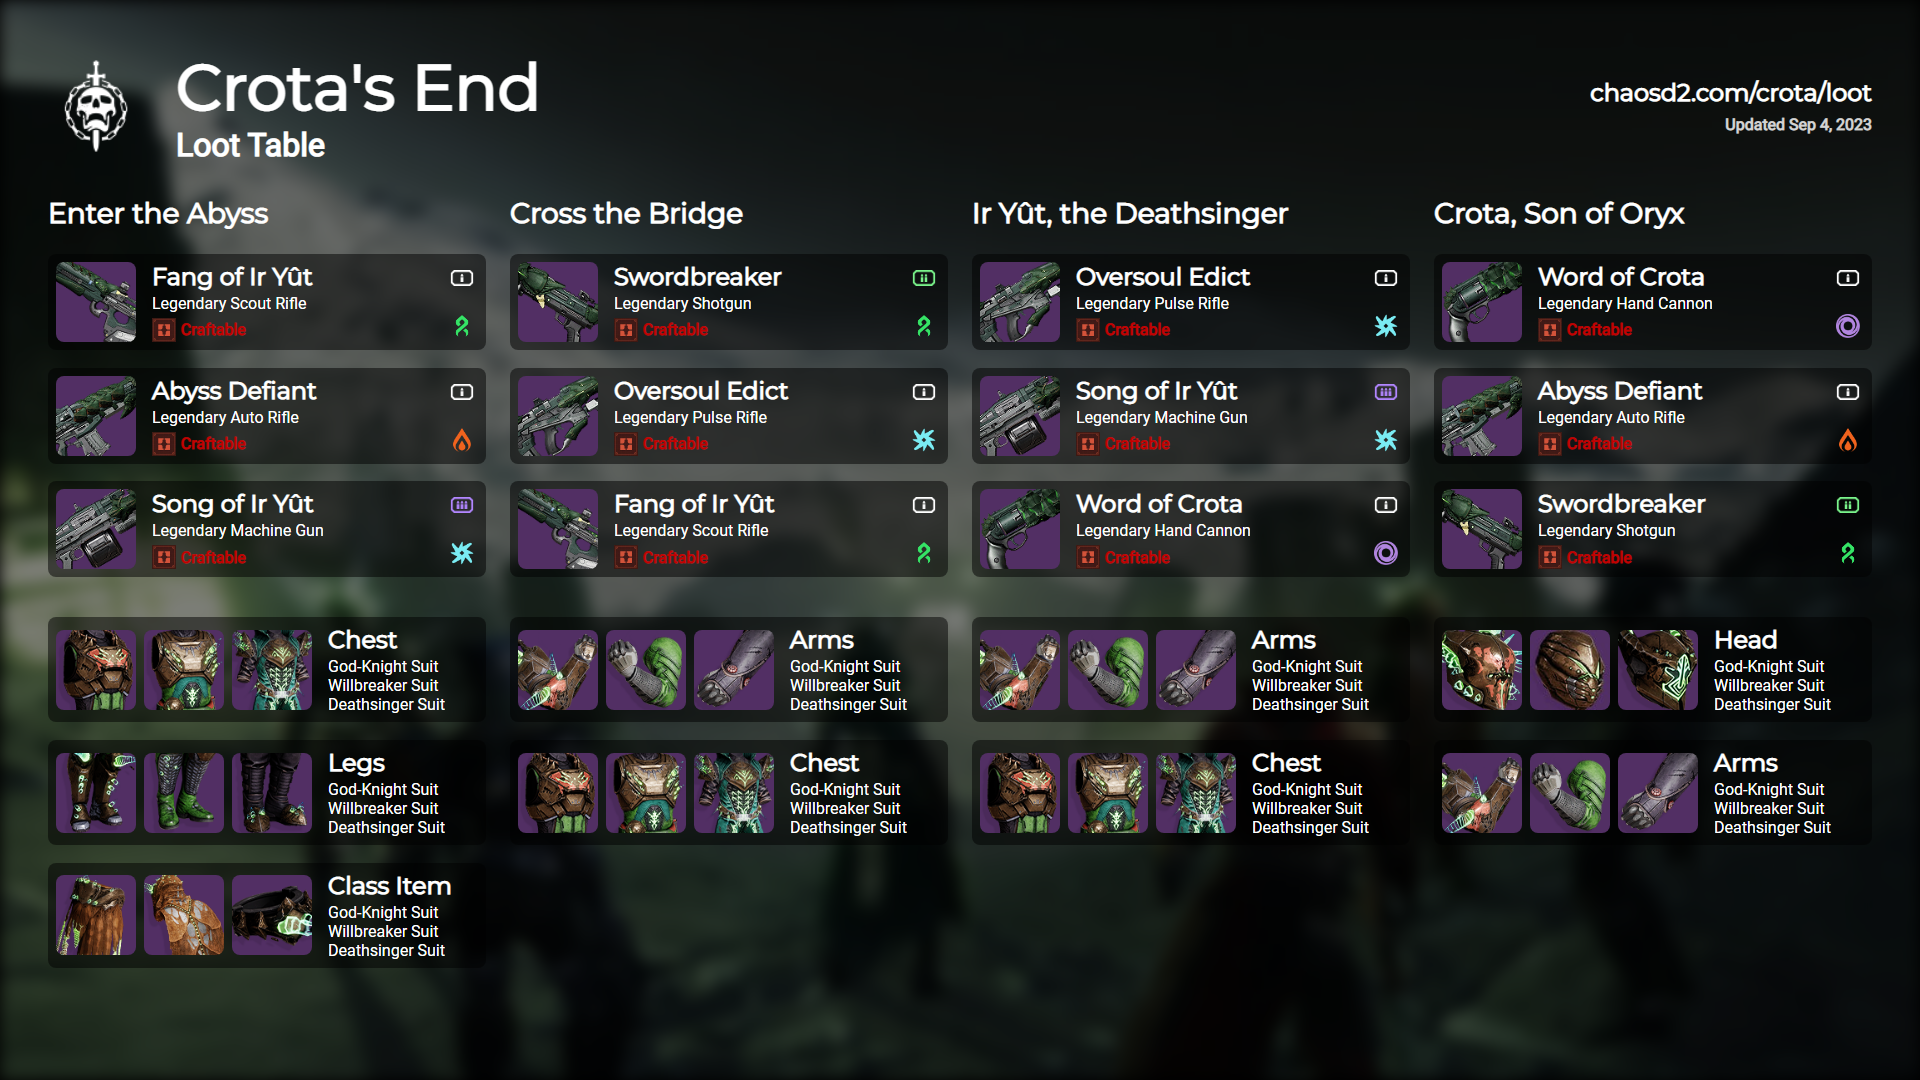
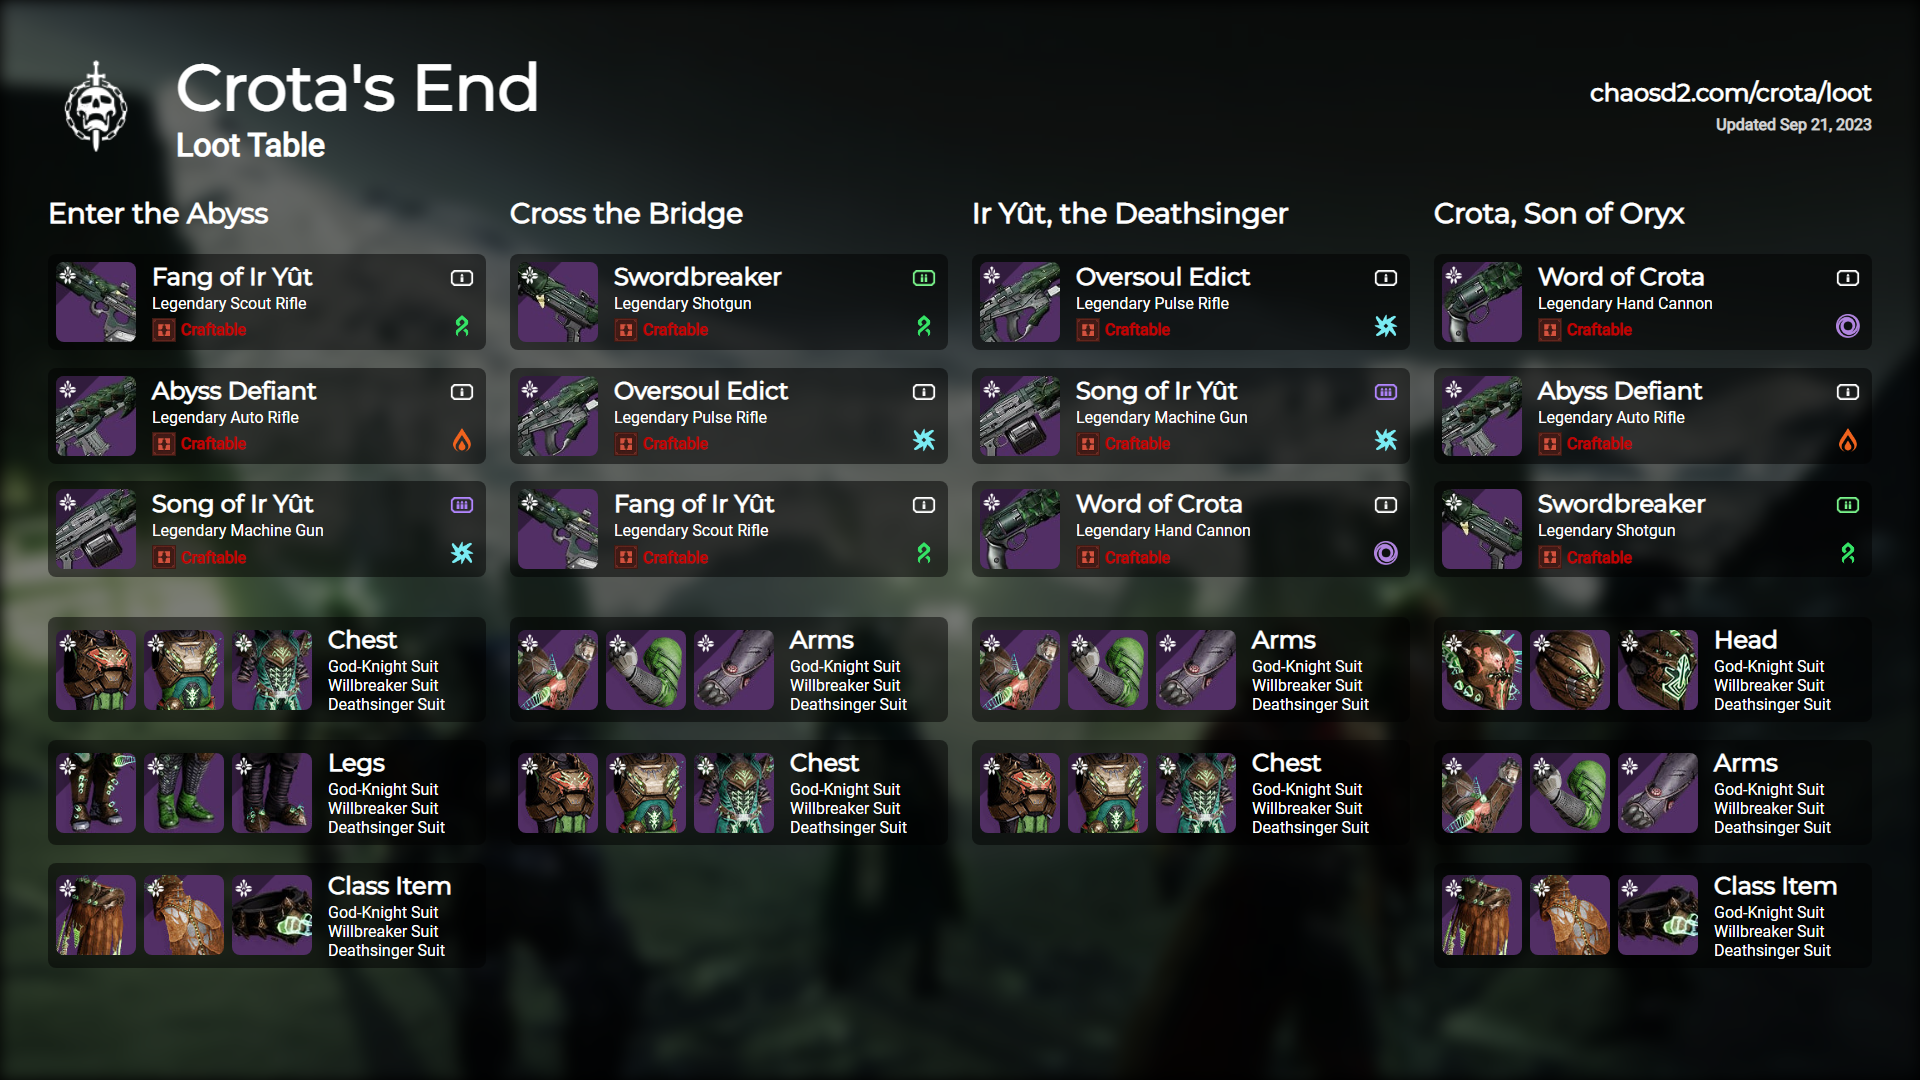
Updated Crota's End Loot Table

diff --git a/src/lib/bungie/APIHandler.js b/src/lib/bungie/APIHandler.js
@@ -8,192 +8,7 @@ const damage = {
 }
 
 const static_definitions = {
-    "1432682459": {
-        "displayProperties": {
-            "name": "Fang of Ir Yût",
-            "icon": "https://chaosd2.com/images/temp/crotas_end/scout_rifle.png",
-        },
-        "inventory": {
-            "recipeItemHash": 1
-        },
-        "equippingBlock": {
-            "ammoType": 1
-        },
-        "damageTypeHashes": [
-            damage.Strand
-        ],
-        "itemTypeAndTierDisplayName": "Legendary Scout Rifle",
-    },
-    "3163900678": {
-        "displayProperties": {
-            "name": "Swordbreaker",
-            "icon": "https://chaosd2.com/images/temp/crotas_end/shotgun.png",
-        },
-        "inventory": {
-            "recipeItemHash": 1
-        },
-        "equippingBlock": {
-            "ammoType": 2
-        },
-        "damageTypeHashes": [
-            damage.Strand
-        ],
-        "itemTypeAndTierDisplayName": "Legendary Shotgun",
-    },
-    "1034055198": {
-        "displayProperties": {
-            "name": "Necrochasm",
-            "icon": "https://chaosd2.com/images/temp/crotas_end/exotic.png",
-        },
-        "inventory": {
-        },
-        "equippingBlock": {
-            "ammoType": 1
-        },
-        "damageTypeHashes": [
-            damage.Kinetic
-        ],
-        "itemTypeAndTierDisplayName": "Exotic Auto Rifle",
-    },
-    "120706239": {
-        "displayProperties": {
-            "name": "Word of Crota",
-            "icon": "https://chaosd2.com/images/temp/crotas_end/hand_cannon.png"
-        },
-        "inventory": {
-            "recipeItemHash": 1
-        },
-        "equippingBlock": {
-            "ammoType": 1
-        },
-        "damageTypeHashes": [
-            damage.Void
-        ],
-        "itemTypeAndTierDisplayName": "Legendary Hand Cannon",
-    },
-    "833898322": {
-        "displayProperties": {
-            "name": "Abyss Defiant",
-            "icon": "https://chaosd2.com/images/temp/crotas_end/auto_rifle.png",
-        },
-        "inventory": {
-            "recipeItemHash": 1
-        },
-        "equippingBlock": {
-            "ammoType": 1
-        },
-        "damageTypeHashes": [
-            damage.Solar
-        ],
-        "itemTypeAndTierDisplayName": "Legendary Auto Rifle",
-    },
-    "1098171824": {
-        "displayProperties": {
-            "name": "Oversoul Edict",
-            "icon": "https://chaosd2.com/images/temp/crotas_end/pulse_rifle.png",
-        },
-        "inventory": {
-            "recipeItemHash": 1
-        },
-        "equippingBlock": {
-            "ammoType": 1
-        },
-        "damageTypeHashes": [
-            damage.Arc
-        ],
-        "itemTypeAndTierDisplayName": "Legendary Pulse Rifle",
-    },
-    "2828278545": {
-        "displayProperties": {
-            "name": "Song of Ir Yût",
-            "icon": "https://chaosd2.com/images/temp/crotas_end/machine_gun.png",
-        },
-        "inventory": {
-            "recipeItemHash": 1
-        },
-        "equippingBlock": {
-            "ammoType": 3
-        },
-        "damageTypeHashes": [
-            damage.Arc
-        ],
-        "itemTypeAndTierDisplayName": "Legendary Machine Gun",
-    },
-    "1328334240": {
-        "displayProperties": {
-            "icon": "https://chaosd2.com/images/temp/crotas_end/item-1328334240.png",
-        }
-    },
-    "859929450": {
-        "displayProperties": {
-            "icon": "https://chaosd2.com/images/temp/crotas_end/item_859929450.jpg",
-        }
-    },
-    "1964816829": {
-        "displayProperties": {
-            "icon": "https://chaosd2.com/images/temp/crotas_end/item-1964816829.png",
-        }
-    },
-    "3189374833": {
-        "displayProperties": {
-            "icon": "https://chaosd2.com/images/temp/crotas_end/item-3189374833.png",
-        }
-    },
-    "441033139": {
-        "displayProperties": {
-            "icon": "https://chaosd2.com/images/temp/crotas_end/item-441033139.png",
-        }
-    },
-    "427348780": {
-        "displayProperties": {
-            "icon": "https://chaosd2.com/images/temp/crotas_end/item-427348780.png",
-        }
-    },
-    "1261894567": {
-        "displayProperties": {
-            "icon": "https://chaosd2.com/images/temp/crotas_end/item-1261894567.png",
-        }
-    },
-    "3714937821": {
-        "displayProperties": {
-            "icon": "https://chaosd2.com/images/temp/crotas_end/item-3714937821.png",
-        }
-    },
-    "1386180724": {
-        "displayProperties": {
-            "icon": "https://chaosd2.com/images/temp/crotas_end/item-1386180724.png",
-        }
-    },
-    "3020524483": {
-        "displayProperties": {
-            "icon": "https://chaosd2.com/images/temp/crotas_end/item-3020524483.png",
-        }
-    },
-    "175883909": {
-        "displayProperties": {
-            "icon": "https://chaosd2.com/images/temp/crotas_end/item-175883909.png",
-        }
-    },
-    "1497538390": {
-        "displayProperties": {
-            "icon": "https://chaosd2.com/images/temp/crotas_end/item-1497538390.png",
-        }
-    },
-    "2401746614": {
-        "displayProperties": {
-            "icon": "https://chaosd2.com/images/temp/crotas_end/item-2401746614.png",
-        }
-    },
-    "1306415888": {
-        "displayProperties": {
-            "icon": "https://chaosd2.com/images/temp/crotas_end/item-1306415888.png",
-        }
-    },
-    "2130010697": {
-        "displayProperties": {
-            "icon": "https://chaosd2.com/images/temp/crotas_end/item-2130010697.png",
-        }
-    },
+
 }
 
 function generate_unknown_item(item_hash) {

diff --git a/src/app/image_sources/raids/crotas_end/loot/page.js b/src/app/image_sources/raids/crotas_end/loot/page.js
@@ -1,13 +1,6 @@
 import LootTable from "@image_components/LootTable";
 import {BungieIcons} from "@components/BungieIcons";
 import Background from "@backgrounds/crotas_end.jpg";
-import styles from "@image_components/LootTable.module.css";
-import Image from "next/image";
-import ImageHeader from "@image_components/ImageHeader";
-import tempstyles from "./tempstyles.module.css";
-import ImageUnderConstruction from "@image_components/ImageUnderConstruction";
-import ItemInsert from "@image_components/ItemInsert";
-import ArmourInsert from "@image_components/ArmourInsert";
 
 export const metadata = {
     other: {
@@ -74,7 +67,8 @@ const data = {
             ],
             "armour": [
                 "Head",
-                "Arms"
+                "Arms",
+                "Class Item"
             ]
         }
     ],
@@ -108,35 +102,6 @@ const data = {
             ]
         }
     }
-}
-
-function temp() {
-    return (
-        <body className={styles.main}>
-        <Image src={Background} alt={""} className={styles.background}/>
-        <div className={styles.wrapper}>
-            <ImageHeader title={"Crota's End"} subtitle={"Loot Table (Work in Progress)"} icon={BungieIcons.raids.crotas_end} href={"chaosd2.com/crota/loot"}/>
-            <div className={styles.content}>
-                <h2 className={tempstyles.title}>Weapons</h2>
-                <div className={tempstyles.weapons}>
-                    {Object.keys(items).map((key) => {
-                        return (
-                            <ItemInsert key={key} item_hash={items[key]}/>
-                        )
-                    })}
-                </div>
-                <h2 className={tempstyles.title}>Armour</h2>
-                <div className={tempstyles.armour}>
-                    {Object.keys(data.armour.hashes).map((key) => {
-                        return (
-                            <ArmourInsert key={key} armour_hashes={data.armour.hashes[key]} slot_name={key} set_name={"Crota's End"}/>
-                        )
-                    })}
-                </div>
-            </div>
-        </div>
-        </body>
-    )
 }
 
 export default function CrotaLoot() {
